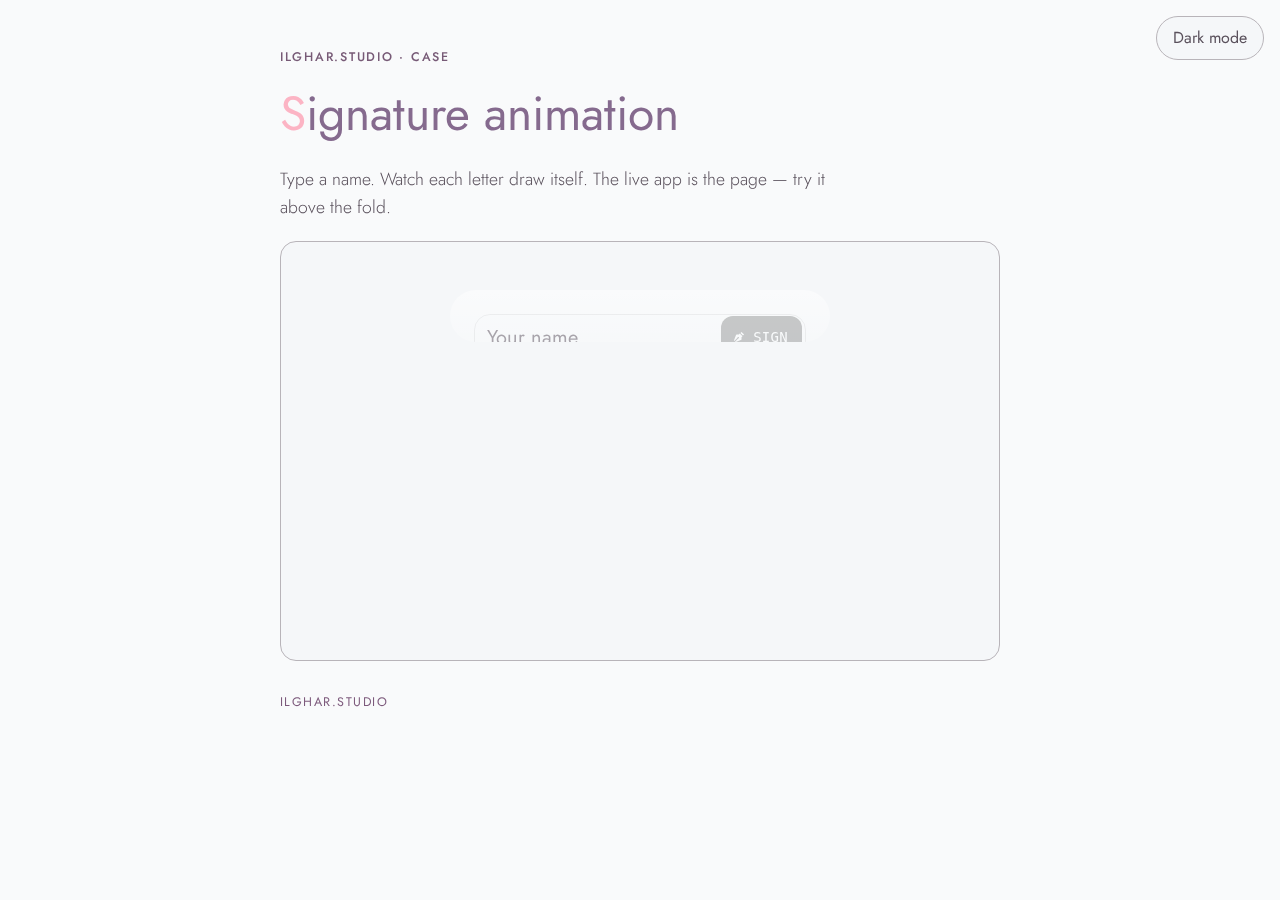
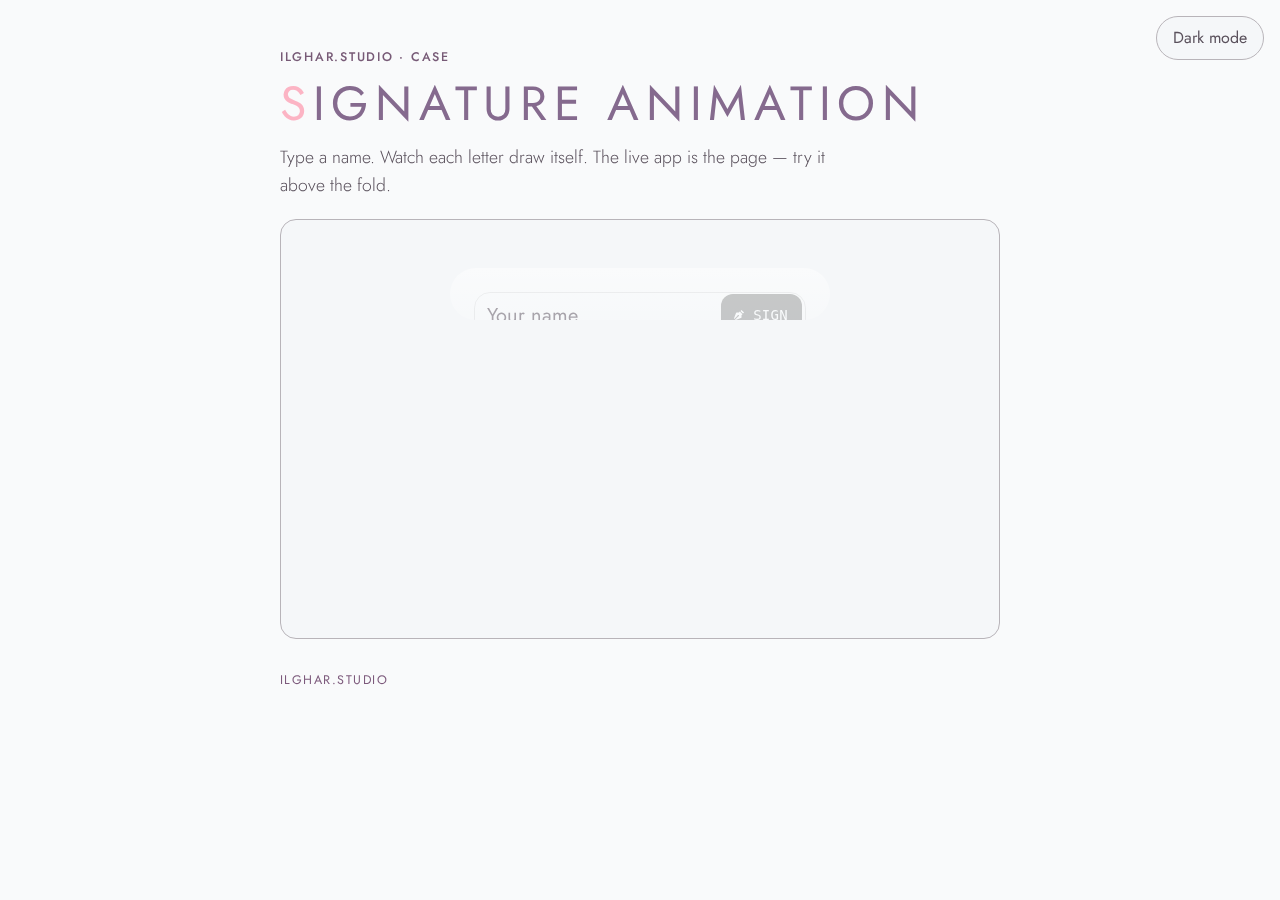
fix(pages): hero title pattern, column 960; reshoot

diff --git a/pages-shell.css b/pages-shell.css
@@ -3,13 +3,27 @@
 html{background:var(--canvas);color:var(--ink)}
 body{margin:0;min-height:100dvh;background:var(--canvas);color:var(--ink);font-family:var(--font-sans);font-weight:400;line-height:1.6;-webkit-font-smoothing:antialiased}
 img,svg,video,canvas,iframe{max-width:100%;height:auto;display:block}
-.ilg-wrap,.ilg-main,main{max-width:72rem;margin-inline:auto;padding:clamp(1.25rem,4vw,3rem) clamp(1rem,4vw,2rem);width:100%}
+.ilg-wrap,.ilg-main,main{max-width:960px;margin-inline:auto;padding:clamp(1.25rem,4vw,3rem) clamp(1rem,4vw,2rem);width:100%}
 .ilg-wrap--narrow,main.narrow{max-width:48rem}
 .ilg-hero{margin:0 0 1.5rem}
 .ilg-kicker{font-family:var(--font-sans);font-weight:var(--label-weight);font-size:.78rem;letter-spacing:.14em;text-transform:uppercase;color:var(--label);margin:0 0 .5rem}
-.ilg-title,.ilg-hero h1{font-family:var(--title-lat-family);font-weight:var(--title-lat-weight);font-size:clamp(2rem,5vw,3.4rem);line-height:1.05;letter-spacing:-.015em;color:var(--title);margin:.25rem 0 .75rem;text-wrap:balance}
-.ilg-title .initial,.ilg-hero h1 .initial{color:var(--accent-dot)}
-.ilg-title [lang="fa"],.ilg-hero h1 [lang="fa"]{font-family:var(--title-fa-family);font-weight:var(--title-fa-weight);font-size:var(--title-fa-size);letter-spacing:0;text-transform:none}
+/* hero title block (DESIGNER—BOSS): first letter pink, caps + letterspacing in label colour */
+.ilg-title,.ilg-hero h1,h1{
+  font-family:var(--title-lat-family);
+  font-weight:var(--title-lat-weight,400);
+  font-size:clamp(1.6rem,4vw,2.4rem);
+  line-height:1.15;
+  letter-spacing:.14em;
+  text-transform:uppercase;
+  color:var(--label); /* #775a76 light / #a6a1a7 dark */
+  margin:.25rem 0 .75rem;
+  text-wrap:balance;
+}
+.ilg-title .initial,.ilg-hero h1 .initial,h1 .initial{color:var(--accent-dot); /* #fcb4c4 / #cf9aae */}
+.ilg-title [lang="fa"],.ilg-hero h1 [lang="fa"],h1 [lang="fa"]{
+  font-family:var(--title-fa-family);font-weight:var(--title-fa-weight,400);
+  font-size:var(--title-fa-size,.9em);letter-spacing:0;text-transform:none;
+}
 .ilg-sub{font-size:clamp(1.05rem,2vw,1.25rem);font-weight:300;color:var(--ink);max-width:40rem;margin:0 0 1rem}
 .ilg-cta{display:inline-flex;align-items:center;gap:.5rem;font-weight:500;font-size:.9rem;letter-spacing:.06em;text-transform:uppercase;color:var(--accent-fg);background:var(--accent);border:1px solid var(--accent);border-radius:999px;padding:.55rem 1.1rem;text-decoration:none}
 .ilg-cta:focus-visible{outline:2px solid var(--ring);outline-offset:3px}
@@ -19,3 +33,7 @@ img,svg,video,canvas,iframe{max-width:100%;height:auto;display:block}
 .ilg-frame img,.ilg-frame svg,.ilg-frame canvas{width:100%;height:auto;border-radius:8px}
 .ilg-credit{font-size:.78rem;letter-spacing:.12em;text-transform:uppercase;color:var(--muted);margin-top:2rem}
 [lang="fa"]{font-family:var(--font-fa);letter-spacing:0;text-transform:none}
+
+/* boards/frames stay inside the text column */
+.board,.ilg-frame,figure{max-width:100%;margin-inline:0}
+.board img,.board picture,.board svg{width:100%;max-width:100%;height:auto;display:block}
